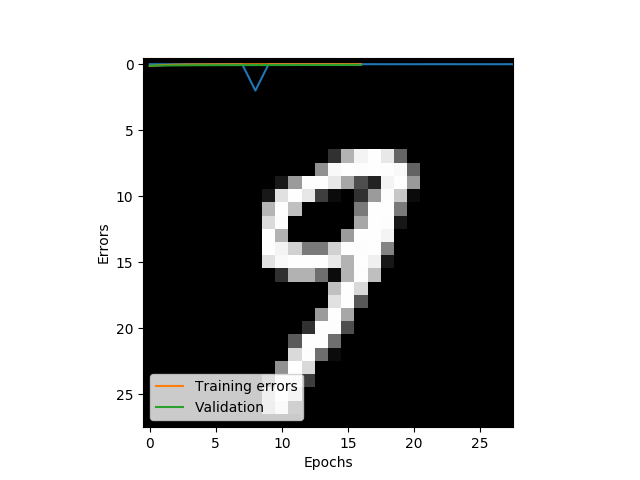
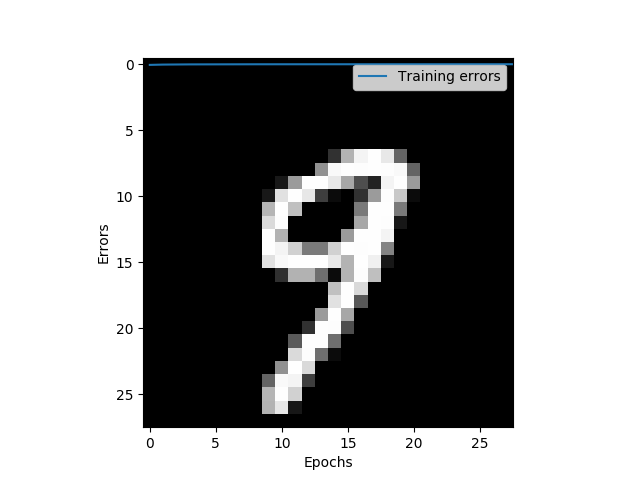
validation ok maybe

Changed region(s): [[0.2188, 0.75, 0.5, 0.9062], [0.2188, 0.125, 0.8125, 0.2188]]

diff --git a/nn_mnist.py b/nn_mnist.py
@@ -110,13 +110,25 @@ while (validation_error <= last_validation_error and diferrence > 0.001):
     print_results(mode="Validation", epoch_number=epoch, error=validation_error,
                   batch_xs=batch_validation_xs, batch_ys=batch_validation_ys)
 # ---------------- Visualizing some element of the MNIST dataset --------------
+
+for i in xrange(epoch):
+    for kk in xrange(len(test_x) / batch_size):
+        batch_test_xs = test_x[kk * batch_size: kk * batch_size + batch_size]
+        batch_test_ys = test_y[kk * batch_size: kk * batch_size + batch_size]
+        sess.run(train, feed_dict={x: batch_test_xs, y_: batch_test_ys})
+        test_error = sess.run(loss, feed_dict={x: batch_test_xs, y_: batch_test_ys})
+    test_error = sess.run(loss, feed_dict={x: batch_test_xs, y_: batch_test_ys})
+    test_errors.append(test_error)
+    print_results(mode="Testing", epoch_number=i, error=test_error,
+                  batch_xs=batch_test_xs, batch_ys=batch_test_ys)
+
 plt.ylabel('Errors')
 plt.xlabel('Epochs')
-# test_line, = plt.plot(test_errors)
+test_line, = plt.plot(test_errors)
 training_line, = plt.plot(training_errors)
 validation_line, = plt.plot(validation_errors)
-plt.legend(handles=[training_line, validation_line],
-           labels=["Training errors", "Validation errors"])
+plt.legend(handles=[training_line, validation_line, test_line],
+           labels=["Training errors", "Validation errors", "Test errors"])
 plt.savefig('mn.png')
 
 #plt.imshow(train_x[57].reshape((28, 28)), cmap=cm.Greys_r)

diff --git a/nn_iris.py b/nn_iris.py
@@ -135,13 +135,17 @@ while (validation_error <= last_validation_error and diferrence > 0.001):
 print "----------------------"
 print "   Training finished  "
 print "----------------------"
-for kk in xrange(len(x_test_data) / batch_size):
-    batch_test_xs = x_test_data[kk * batch_size: kk * batch_size + batch_size]
-    batch_test_ys = y_test_data[kk * batch_size: kk * batch_size + batch_size]
-    sess.run(train, feed_dict={x: batch_test_xs, y_: batch_test_ys})
+for i in xrange(epoch):
+    for kk in xrange(len(x_test_data) / batch_size):
+        batch_test_xs = x_test_data[kk * batch_size: kk * batch_size + batch_size]
+        batch_test_ys = y_test_data[kk * batch_size: kk * batch_size + batch_size]
+        sess.run(train, feed_dict={x: batch_test_xs, y_: batch_test_ys})
+        test_error = sess.run(loss, feed_dict={x: batch_test_xs, y_: batch_test_ys})
     test_error = sess.run(loss, feed_dict={x: batch_test_xs, y_: batch_test_ys})
-
     test_errors.append(test_error)
+    print_results(mode="Testing", epoch_number=i, error=test_error,
+                  batch_xs=batch_test_xs, batch_ys=batch_test_ys)
+
 
 plt.ylabel('Errors')
 plt.xlabel('Epochs')
